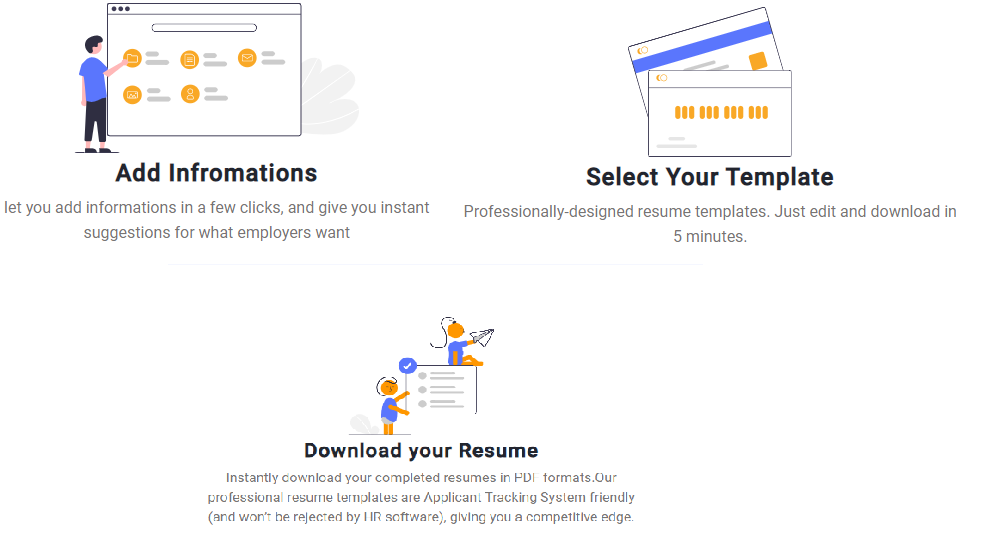
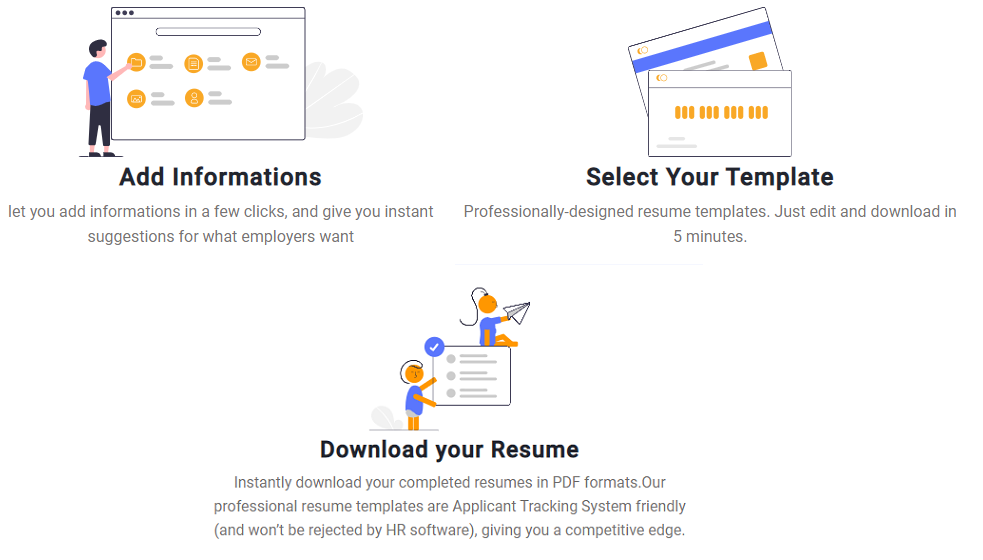
last3

diff --git a/Frontend/src/app/home/home.component.html b/Frontend/src/app/home/home.component.html
@@ -63,7 +63,7 @@
     <!--box-2-------->
     <div class="box">
         <img src="../../assets/images/account view.svg">
-        <p id="box-p1"> Add Infromations</p>
+        <p id="box-p1"> Add Informations</p>
         <p id="box-p2">let you add informations in a few clicks, and give you instant suggestions for what employers want</p>
         <!--btn--------->
         <!-- <a href="#">Create</a> -->
